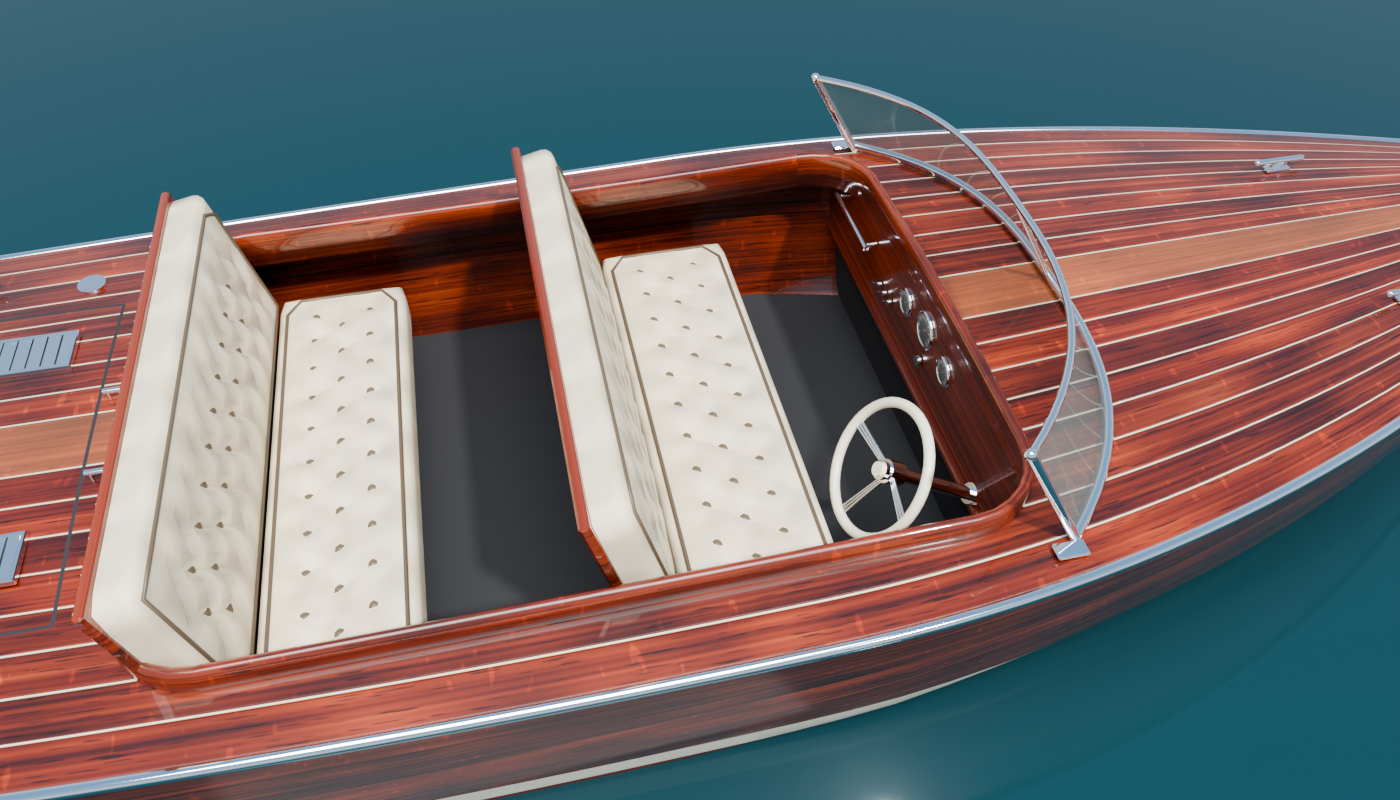
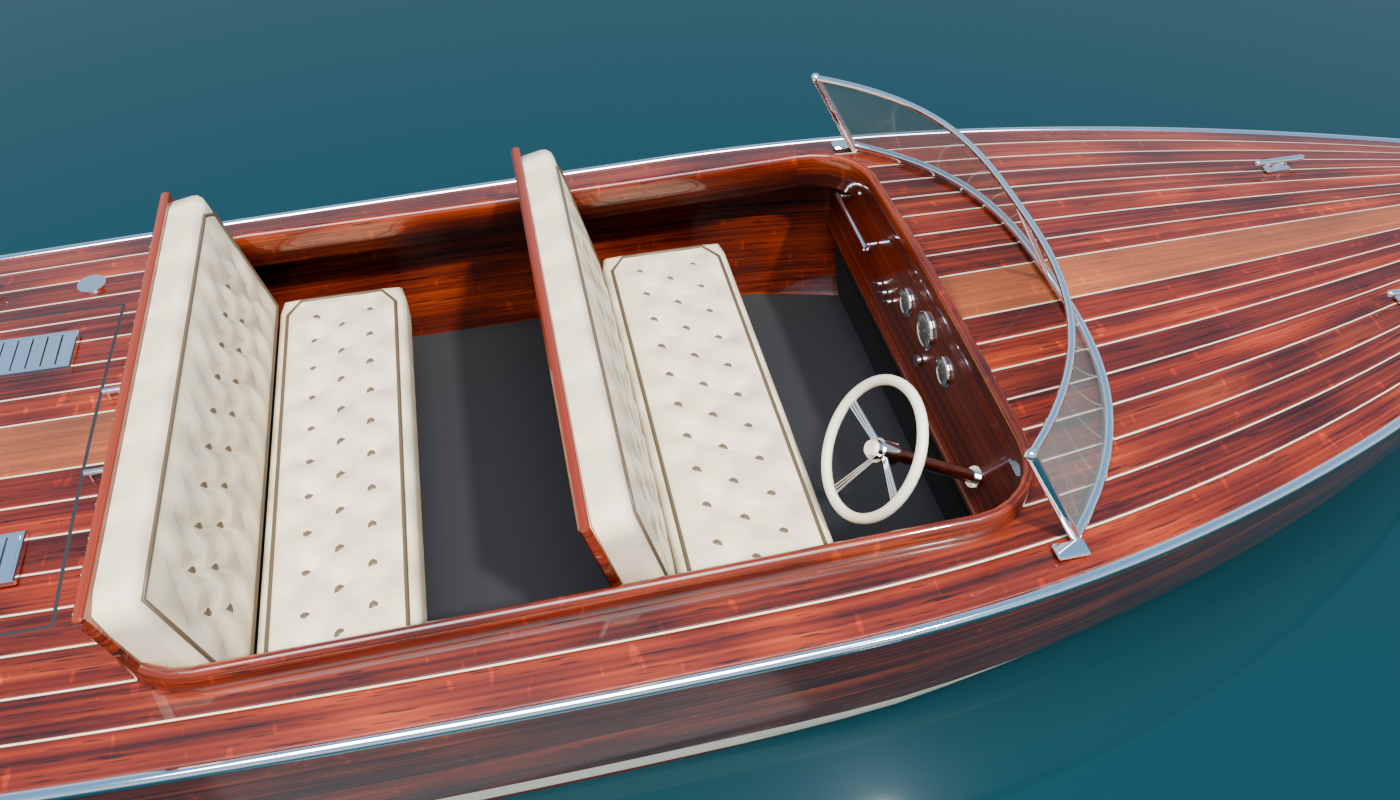
Bring the runabout's wheel closer to the driver

Changed region(s): [[0.5836, 0.4688, 0.7371, 0.6875]]

diff --git a/scripts/build-runabout.py b/scripts/build-runabout.py
@@ -834,7 +834,7 @@ TILT, RIM = 0.55, 0.20
 FRONT_ROW, REAR_ROW = 0.305, -0.86            # seat cushion centres
 HIPS_FRONT = FRONT_ROW + 0.235 - 0.165       # seated hips: 0.165 m behind the front cushion edge
 HIPS_REAR = REAR_ROW + 0.22 - 0.165
-HUB = P(-0.52, HIPS_FRONT + 0.32, ZF + 0.54)   # within arm's reach of the seated driver's shoulders
+HUB = P(-0.52, HIPS_FRONT + 0.285, ZF + 0.64)  # within arm's reach of the seated driver's shoulders
 WHEEL_R = Matrix.Rotation(TILT, 3, 'X')
 
 
